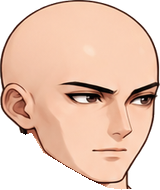
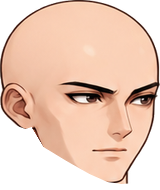
Align the closed collar to the neck and add short slicked-back hair
Center and narrow the symmetric front collar, separate the head from its neck overlap without moving its saved transform pivot, and preserve opaque shoulder seams. Add a forehead-exposing slicked-back hairstyle with cropped sides and rear, paired front/back layers, and the existing save, tint and export workflow.

Validated 10 tests, 23 transparent assets, five original looks plus the new hair in all five outfits, 20 garment combinations, three source-preserving hair splits, three 12-layer ZIPs, neck contact and symmetry, no shoulder alpha gaps, idempotent rebuilding, TypeScript and production build.

Changed region(s): [[0.0938, 0.6579, 0.8438, 1.0]]

diff --git a/public/wardrobe/reader.html b/public/wardrobe/reader.html
@@ -1,6 +1,6 @@
 <!doctype html>
 <html lang="zh-CN">
-<head><meta charset="UTF-8"><meta name="viewport" content="width=device-width, initial-scale=1.0"><title>人物读取示例 · Lucky Break</title><link rel="stylesheet" href="./studio.css?v=20261103-collar2"><script type="module" src="./reader.js?v=20261103-collar2"></script></head>
+<head><meta charset="UTF-8"><meta name="viewport" content="width=device-width, initial-scale=1.0"><title>人物读取示例 · Lucky Break</title><link rel="stylesheet" href="./studio.css?v=20261103-slickback3"><script type="module" src="./reader.js?v=20261103-slickback3"></script></head>
 <body class="reader-body">
   <header class="app-header"><a class="brand" href="./index.html"><span class="brand-mark">L<span>·</span>B</span><span>LUCKY BREAK<small>CHARACTER ATELIER</small></span></a><nav class="top-nav"><a href="./index.html">人物造型室</a><span>/</span><span>页面读取示例</span></nav><div class="header-actions"><a class="primary-button" href="./index.html" target="_blank" rel="noopener">打开造型室 ↗</a></div></header>
   <main class="reader-main">

diff --git a/public/wardrobe/studio.js b/public/wardrobe/studio.js
@@ -1,4 +1,4 @@
-import { CATEGORIES, CALIBRATION_KINDS, BACK_PARENTS, DRAW_ORDER, STATE_KEY, getManifest, createState, normalizeState, loadState, saveState, listSavedPresets, savePreset, renderAvatar, renderLayer, selectedAsset, canvasBlob, getAvatarBlob, renderCompositeLayers, importAsset, exportConfig, importConfig } from './avatar-sdk.js?v=20261103-collar2';
+import { CATEGORIES, CALIBRATION_KINDS, BACK_PARENTS, DRAW_ORDER, STATE_KEY, getManifest, createState, normalizeState, loadState, saveState, listSavedPresets, savePreset, renderAvatar, renderLayer, selectedAsset, canvasBlob, getAvatarBlob, renderCompositeLayers, importAsset, exportConfig, importConfig } from './avatar-sdk.js?v=20261103-slickback3';
 import { makeZip } from './zip.js';
 import { icon, iconize } from './icons.js';
 const labels = { hair: '发型', 'hair-back':'后发', 'outer-back':'后衬', top: '内搭', outer: '外套', pants: '裤装', shoes: '鞋履', body: '手臂', head: '头部', neck: '颈部' };

diff --git a/public/wardrobe/avatar-sdk.js b/public/wardrobe/avatar-sdk.js
@@ -18,7 +18,7 @@ const number = (v, fallback, min, max) => Number.isFinite(Number(v)) ? Math.min(
 const copy = value => JSON.parse(JSON.stringify(value));
 
 export async function getManifest() {
-  manifestPromise ||= fetch(new URL('./manifest.json?v=20261103-collar2', import.meta.url)).then(response => {
+  manifestPromise ||= fetch(new URL('./manifest.json?v=20261103-slickback3', import.meta.url)).then(response => {
     if (!response.ok) throw new Error('素材清单读取失败，请刷新重试。');
     return response.json();
   }).catch(error => { manifestPromise = undefined; throw error; });

diff --git a/public/wardrobe/index.html b/public/wardrobe/index.html
@@ -6,8 +6,8 @@
   <meta name="theme-color" content="#f5f5ef">
   <meta name="description" content="Lucky Break 人物造型室：分层插画换装、独立换色、透明人物导出与跨页面读取。">
   <title>人物造型室 · Lucky Break</title>
-  <link rel="stylesheet" href="./studio.css?v=20261103-collar2">
-  <script type="module" src="./studio.js?v=20261103-collar2"></script>
+  <link rel="stylesheet" href="./studio.css?v=20261103-slickback3">
+  <script type="module" src="./studio.js?v=20261103-slickback3"></script>
 </head>
 <body>
   <header class="app-header">

diff --git a/public/wardrobe/reader.js b/public/wardrobe/reader.js
@@ -1,4 +1,4 @@
-import { getManifest, loadState, renderAvatar, subscribeAvatar, getAvatarBlob } from './avatar-sdk.js?v=20261103-collar2';
+import { getManifest, loadState, renderAvatar, subscribeAvatar, getAvatarBlob } from './avatar-sdk.js?v=20261103-slickback3';
 const $ = id => document.getElementById(id);
 let state, version = 0;
 async function update(next) {

diff --git a/public/wardrobe/docs/wardrobe.md b/public/wardrobe/docs/wardrobe.md
@@ -29,15 +29,15 @@ npm run dev
 | 头部 | 保留原身份的头脸，与颈部独立 |
 | 颈部 | 独立颈部及锁骨补片，填满开领处 |
 | 手臂 | 裸露手臂与手掌 |
-| 发型前片 | 原黑色随性中分、原金色微卷的脸前与顶部发片 |
-| 后发 | 从原黑色、金色短发各自拆出的后脑与后颈发束，可不使用 |
+| 发型前片 | 黑色随性中分、金色微卷、露额利落背头 |
+| 后发 | 黑色、金色原短发的后发，以及背头的短后发，可不使用 |
 | 内搭 | 短袖 T 恤、白衬衫、酒红高领针织、礼服衬衫与马甲 |
 | 外套 | 飞行夹克、工装夹克、长风衣、礼服西装；可不穿外套 |
 | 后衬 | 原风衣两片内侧下摆与后背内衬，可不使用 |
 | 裤装 | 修身西裤、破洞牛仔裤、休闲裤 |
 | 鞋履 | 系带皮鞋、黑白帆布鞋 |
 
-共 **21 张运行时透明 PNG 插画**，约 **4.29 MB**，另有房间 JPG、6 张后领技术遮罩、风衣内侧遮罩，以及保留的原始发型、风衣、skin、礼服、高领和中性颈部制作源。五套预设为日常轻装、夜行夹克、远行工装、暖金风衣、紫藤礼服。十个编辑图层均支持颜色、位置、缩放、不透明度和显隐；发型、后发、内搭、外套、后衬、裤装和鞋履均支持自定义 PNG 导入。两套原短发保留原图笔触与轮廓，不再提供额外生成的长发。此版本马甲和领带属于礼服内搭层。
+共 **23 张运行时透明 PNG 插画**，约 **4.35 MB**，另有房间 JPG、6 张后领技术遮罩、风衣内侧遮罩，以及保留的原始发型、风衣、skin、礼服、高领和中性颈部制作源。五套预设为日常轻装、夜行夹克、远行工装、暖金风衣、紫藤礼服。十个编辑图层均支持颜色、位置、缩放、不透明度和显隐；发型、后发、内搭、外套、后衬、裤装和鞋履均支持自定义 PNG 导入。两套原短发保留原图笔触与轮廓，新增露额利落背头，两侧和后颈剪短。此版本马甲和领带属于礼服内搭层。
 
 素材文件在 `public/wardrobe/assets/`，每个 PNG 裁掉无用透明边，位置由 `manifest.json` 中的 `box: [x,y,width,height]` 定义。单个文件不等于完整人物画布，不能忽略 box。白衬衫通过 `mirrorX: true` 统一朝向；礼服 v2 的原图已经朝右，不再镜像。页面预览和导出已烘焙朝向。完整画布的每层 PNG 可从页面导出。
 
@@ -65,9 +65,19 @@ npm run dev
 
 ![酒红高领修正对比，左旧右新](turtleneck-collar-comparison.jpg)
 
+## 颈侧贴合与利落背头（2026-11-03）
+
+酒红高领进一步按真实颈部中心配准：领口中心从全局 x=483 调至 x=479，左右开口收窄，两端等高且只显示正面。下颌以下原本保留在头部中的 7 px 颈部重叠改交给独立颈部，避免它在最后绘制头部时压到右侧领边。头部的 `[400,103,160,190]` 包围盒及编辑基准保留，已有命名预设的位置和缩放继续适用。
+
+「发型」新增 **利落背头**，顶部向后梳，露出额头；两侧鬓角与后颈短剪，耳朵露出。前片为 `hair-slickback`，自动配对 `hair-slickback-back`。两片共用 `[387,70,180,154]` 坐标，后发在头部与身体之后，前后片支持跟随、独立微调、换色和导出。
+
+新增素材、图像生成简报及本轮验收记录见 [颈部贴合与背头记录](neck-fit-slickback.md)。
+
+![领口贴合与新增利落背头](neck-fit-slickback-preview.jpg)
+
 ## 前后分层与跟随
 
-黑色随性中分自动配上 `hair-black-back`，金色微卷自动配上 `hair-blonde-back`；两套后发均来自对应的原短发 PNG。风衣自动配上 `outer-trench-lining`，包含后背与从原前片剥离的两处内侧下摆。其他外套使用空后衬，也可在「后发」「后衬」分类单独选择、隐藏、换色或导入 PNG。
+黑色随性中分自动配上 `hair-black-back`，金色微卷自动配上 `hair-blonde-back`；原两套后发均来自对应的原短发 PNG；利落背头配对 `hair-slickback-back`，由同一张背头源图拆出。风衣自动配上 `outer-trench-lining`，包含后背与从原前片剥离的两处内侧下摆。其他外套使用空后衬，也可在「后发」「后衬」分类单独选择、隐藏、换色或导入 PNG。
 
 后层默认勾选「跟随前层」：后发跟随发型，后衬跟随外套的位置、缩放、显隐和不透明度，未单独染色时沿用前层的自定义颜色。后层的 X/Y 与缩放是叠加在跟随关系上的额外调整。取消勾选后可完全独立摆放；还原后层会恢复跟随。内衬跟随时还会限制在外套轮廓之内，避免越过肩线和衣摆。跟随开关与后层参数都保存到命名预设和配置 JSON。
 
@@ -166,7 +176,7 @@ const stop = subscribeAvatar(async state => {
 
 `public/wardrobe/scripts/prepare-wardrobe-assets.mjs` 是机械素材整理脚本：输入本地生成 PNG 路径映射（键为素材 ID，房间键为 room，新颈部源图键为 neck），使用 sharp 裁透明边、拆分左右鞋及身体、校准坐标、导出 manifest。末尾调用 `build-wardrobe-anatomy.mjs`，拆出原头脸和手臂、注册并收紧颈部轮廓、生成后领遮罩。也可单独运行 `node public/wardrobe/scripts/build-wardrobe-anatomy.mjs [颈部源图.png]`；无参数时从保留的 `neck-neutral.png` 重新注册颈部，重复执行不会累计压缩。原 `assets/skin.png` 是拆分源，运行时身体项已指向 `skin-arms.png`。只在重新整理源插画时运行；日常构建无需 sharp，也不会调用图像服务。
 
-`register-rear-assets.mjs [礼服生成源图] [风衣后衬源图]` 整理后层素材。礼服仅替换领口局部，其他部分继续使用原校准图。每次执行均从完整黑发、金发原图拆出前后发，从原风衣分离两片内侧下摆，并与保留的后背源图合成运行时后衬；不再接受新长发素材。`build-wardrobe-anatomy.mjs` 会识别这些素材并保留后层配置，再按新的领口 alpha 生成遮罩。高领遮罩沿原前缘墨线绘制，避免扩张遮罩抹掉布料上沿。
+`register-rear-assets.mjs [礼服生成源图] [风衣后衬源图]` 整理后层素材。礼服仅替换领口局部，其他部分继续使用原校准图。每次执行均从完整黑发、金发、背头源图拆出前后发，从原风衣分离两片内侧下摆，并与保留的后背源图合成运行时后衬；不再接受新长发素材。`build-wardrobe-anatomy.mjs` 会识别这些素材并保留后层配置，再按新的领口 alpha 生成遮罩。高领遮罩沿原前缘墨线绘制，避免扩张遮罩抹掉布料上沿。
 
 ## 检查
 

diff --git a/public/wardrobe/docs/neck-fit-slickback.md b/public/wardrobe/docs/neck-fit-slickback.md
@@ -1,0 +1,40 @@
+# 颈部贴合与利落背头
+
+2026-11-03。需求：继续修正领子和脖子的错位感；新增背头，两侧和后发剪短。保留上轮的左右对称、只显示正面衣领要求。
+
+## 颈部与领口
+
+高领只替换原图 `[148,0,165,115]` 内的局部补片。对称开口中心由原图 x=227 调为 x=223（人物画布 x=479），半宽由 55 调为 51；两端稍向下收拢，在同一水平高度接近颈侧，中央保持浅 U 形。实际颈部在全局 y=294 的中心为 x=479，避免按整件上衣的中心摆放领口。领口上方是真实透明区域，无后领和深色内腔。
+
+头部原来含有下颌以下约 7 px 的颈部皮肤，会随头部在衣领之后绘制时压住右侧前领。此次按下颌轮廓分离，保留必要的抗锯齿重叠，颈部继续使用同源像素衔接。头部 PNG 保持 160 × 190，包围盒 `[400,103,160,190]` 与存档中的缩放基准不变。
+
+相关文件：`assets/head-base.png`、`assets/top-turtleneck-collar-source.png`、`assets/top-turtleneck-v2.png`、`scripts/build-wardrobe-anatomy.mjs`、`scripts/turtleneck-collar.mjs`。
+
+![左为上版，右为重新贴合](neck-fit-comparison.jpg)
+
+## 新增发型
+
+使用内置图像生成工具，参考现有无发头部生成背头插画，清掉极低 alpha 的孤立噪点后，裁边、缩放并注册。没有替换人物头脸。
+
+| 文件 / ID | 用途 |
+| --- | --- |
+| `assets/hair-slickback.png` | 完整已配准制作源，180 × 154 |
+| `assets/hair-slickback-front.png` / `hair-slickback` | 利落背头的发际线、向后梳的顶部及短鬓角 |
+| `assets/hair-slickback-back.png` / `hair-slickback-back` | 头部与耳朵之后的短后发 |
+| `[387,70,180,154]` | 前后两片共用的人物画布坐标 |
+
+后发结束于 y≤224，位于后颈与衣领上方。原黑发与金发继续保留。`register-rear-assets.mjs` 从完整同源 PNG 重建三套前后发；拆片重叠保留源图像素。
+
+## 最终图像生成简报
+
+```text
+Use case: compositing. Asset type: isolated hairstyle PNG for a layered Japanese anime character wardrobe. The supplied bald male head is ONLY an anatomical alignment and drawing-style reference. Create ONLY a dark charcoal-black slicked-back men's haircut that fits this exact head in its same three-quarter view facing screen-right. Do not render the head, face, eyes, ears, skin, neck or body: all those regions must be transparent. Hair must be complete as one isolated cutout with a clear empty face/forehead opening. The long upper hair is swept BACK from the forehead in deliberate broad combed strands with modest pompadour volume, clean visible hairline and a fully exposed forehead, no bangs and no loose lock hanging over the face. The two sides and the back/nape are cut SHORT and neat with a close taper above and behind the ears, short sideburns ending near the top of the ears; absolutely no long hair behind the ears or along the neck, no mullet, no ponytail. Preserve the anime cel-shaded ink style of the reference, subtle warm charcoal highlights, defined hair clumps, crisp narrow lines. The silhouette should sit closely over the reference's bald crown and temples, not be an oversized wig. Ear areas remain transparent; it must be possible to overlay this asset on the original unchanged head. Show the entire hairstyle at high resolution, centered, genuine alpha transparency, no checkerboard drawn into pixels, no text, no labels, no background or other objects.
+```
+
+## 验收
+
+10 项配置、迁移、保存和 ZIP 单元测试通过；新增背头纳入前后发配对与参数保留检查。素材检查为 23 张透明 PNG、10 个编辑层、5 套预设，约 4.35 MB。
+
+像素验收覆盖五套原造型、背头与五套服装的搭配、20 组内外搭、三套发型及风衣的原图拆片重组、三个十二层 ZIP、头颈锚点、领口中心与对称性、右侧前领不被头部颈部重叠压住、露额、短后颈和所有旧图层功能。补片范围以外的原上衣像素保持不变；领口下方保留原衣服 alpha，单穿时肩侧与胸前不会出现透明接缝。TypeScript 与生产构建通过。
+
+默认运行直接读取 PNG，不需要生成服务；新增发型与旧款使用同一套保存、跟随和导出接口。

diff --git a/README.md b/README.md
@@ -8,7 +8,7 @@
 
 在线体验：[人物造型室](https://giogyan90.github.io/UI-tool/wardrobe/index.html) · [其他页面读取示例](https://giogyan90.github.io/UI-tool/wardrobe/reader.html)
 
-新增独立工具页面：[`public/wardrobe/`](public/wardrobe/)，本地启动后打开 `http://localhost:3000/wardrobe/index.html`。包含房间试衣预览、21 张透明 PNG 插画、5 套可混搭造型、10 个编辑图层、完整人物与 12 层 PNG 包导出，以及其他页面读取示例。发型、头部、颈部与后层可精确输入位置和独立宽高，并保存命名预设。原黑发、金发分别拆为前发和后发；风衣的内侧下摆与后背内衬放在腿后，支持跟随前层或独立编辑。头部、发型及颈部连接已统一校准。
+新增独立工具页面：[`public/wardrobe/`](public/wardrobe/)，本地启动后打开 `http://localhost:3000/wardrobe/index.html`。包含房间试衣预览、23 张透明 PNG 插画、5 套可混搭造型、10 个编辑图层、完整人物与 12 层 PNG 包导出，以及其他页面读取示例。发型、头部、颈部与后层可精确输入位置和独立宽高，并保存命名预设。随性中分、金色微卷和新增利落背头均拆为前发和后发；风衣的内侧下摆与后背内衬放在腿后，支持跟随前层或独立编辑。头部、发型及颈部连接已统一校准。
 
 接入和素材说明见 [docs/wardrobe.md](public/wardrobe/docs/wardrobe.md)。新页面无需 API Key。main 更新后通过 GitHub Actions 发布到 Pages。
 
